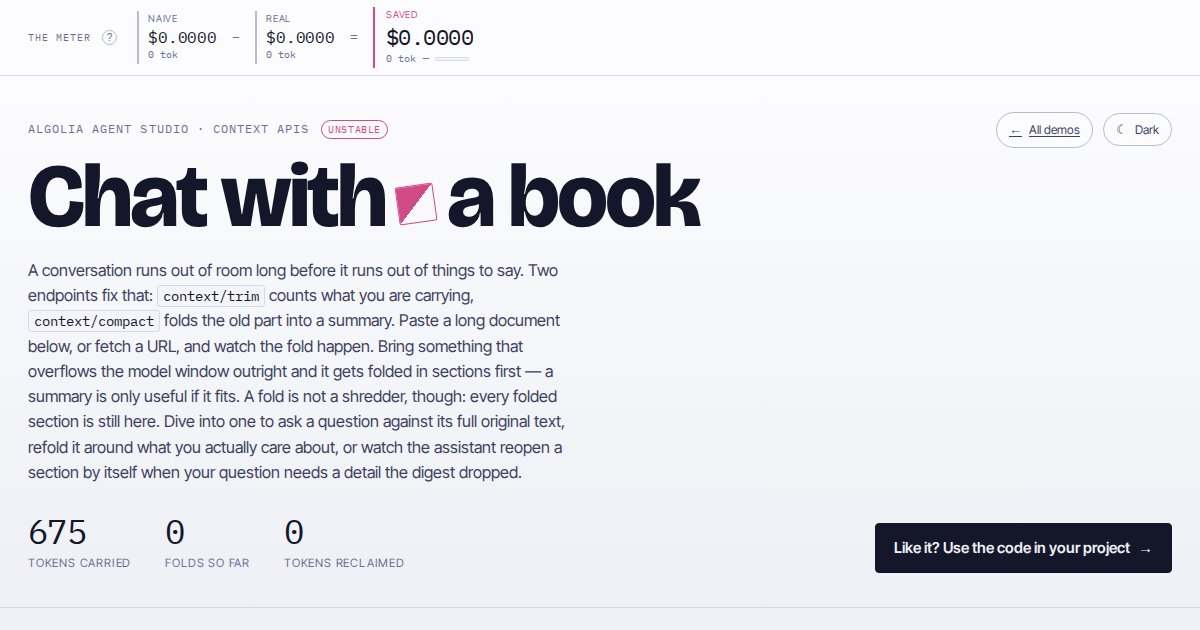
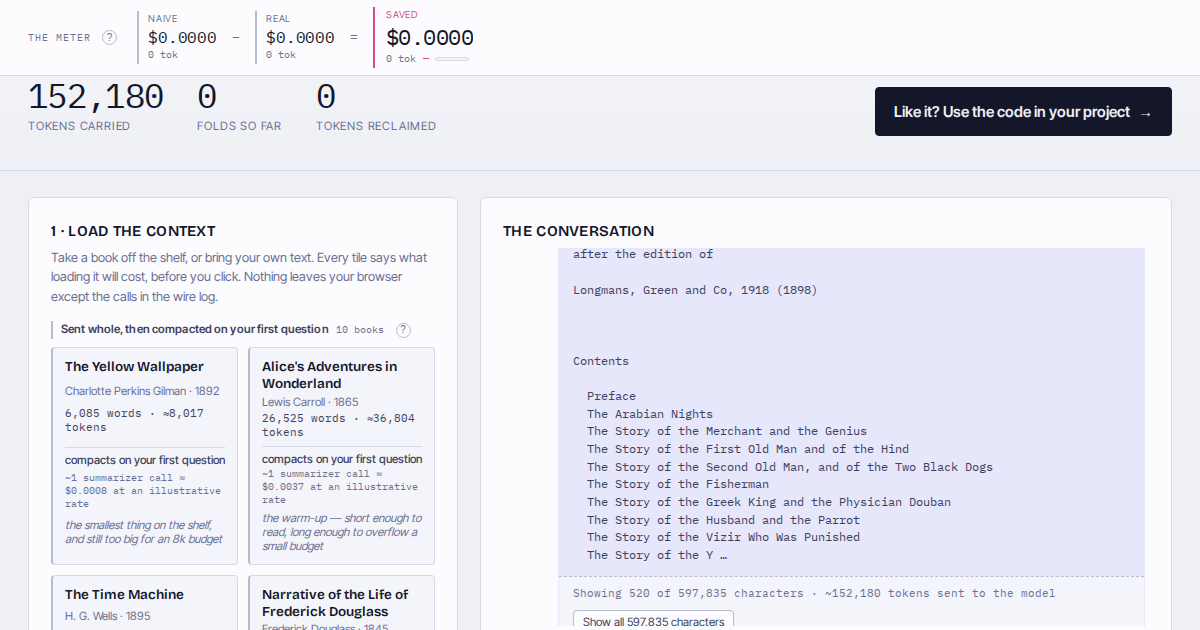
cards: the social images reshot on this week's pages, and the alt text that was lying
All three predated the sixteen-book shelf, the "In the original" section and
the greed control, and the infinite-conversation card still showed the page
when it was a coming-soon placeholder.

Reshot at 1200x630, light theme, from real state and never mocked numbers:

  landing         the page as it loads — both demos now reading Live, the
                  rewritten lede, the fold-mark in the masthead.
  chat-with-book  one real ingestion. The Arabian Nights is the largest book
                  that loads on a single trim call and never reaches the
                  summarizer, so 152,180 tokens carried is a count the trim
                  endpoint returned. The frame is scrolled past the masthead
                  to hold the priced shelf and the loaded text together.
  infinite        the longest seeded saga on arrival, where trim counts the
                  history past the window on its own and the strip flips to
                  impossible mode: 210k on a 200k window, nothing subtracted.

The infinite-conversation alt text claimed a saga "folded on arrival" and the
card shows nothing folded — no fold fires until asked. Rewritten to the state
in the frame, chat-with-book's to name the shelf it now leads with, and the
landing's to say both demos are live, which is what changed in that picture.
No og:description changed; none of them said anything the new images contradict.

Three trim calls to make all three, no compaction and no completions.

diff --git a/public/infinite-conversation/index.html b/public/infinite-conversation/index.html
@@ -17,7 +17,7 @@
 <meta property="og:image" content="https://agent-studio-demos.pages.dev/assets/og/infinite-conversation.png">
 <meta property="og:image:width" content="1200">
 <meta property="og:image:height" content="630">
-<meta property="og:image:alt" content="The Infinite conversation demo, a seeded saga folded on arrival and the cost meter carrying its count.">
+<meta property="og:image:alt" content="The Infinite conversation demo the moment a seeded saga loads: 252&nbsp;exchanges behind you, 209,522&nbsp;tokens carried, and the meter reading 210k on a 200k&nbsp;window with nothing folded yet.">
 <meta name="twitter:card" content="summary_large_image">
 <meta name="twitter:title" content="Infinite conversation&nbsp;— Agent Studio context APIs">
 <meta name="twitter:description" content="Arrive in the middle of a conversation with hundreds of turns and far more tokens than the working budget can hold behind it, then keep going by clicking suggested replies while compaction quietly keeps it alive.">

diff --git a/public/chat-with-book/index.html b/public/chat-with-book/index.html
@@ -19,7 +19,7 @@
 <meta property="og:image" content="https://agent-studio-demos.pages.dev/assets/og/chat-with-book.png">
 <meta property="og:image:width" content="1200">
 <meta property="og:image:height" content="630">
-<meta property="og:image:alt" content="The Chat with a book demo, a document ingested and the token meter carrying its count.">
+<meta property="og:image:alt" content="The Chat with a book demo with a book off the shelf: the priced shelf on the left, the loaded text on the right, and 152,180&nbsp;tokens carried above them.">
 <meta name="twitter:card" content="summary_large_image">
 <meta name="twitter:title" content="Chat with a book&nbsp;— Agent Studio context APIs">
 <meta name="twitter:description" content="Chat with an entire book on a small-context model&nbsp;— hierarchical compaction folds Moby-Dick's 1.2M&nbsp;characters into a conversation that never overflows a 200k&nbsp;window, and every API call is shown on screen.">

diff --git a/public/index.html b/public/index.html
@@ -19,7 +19,7 @@
 <meta property="og:image" content="https://agent-studio-demos.pages.dev/assets/og/landing.png">
 <meta property="og:image:width" content="1200">
 <meta property="og:image:height" content="630">
-<meta property="og:image:alt" content="The Agent Studio demos landing page, with a card for each demo.">
+<meta property="og:image:alt" content="The Agent Studio demos landing page, with a card each for Chat with a book and Infinite conversation, both of them now live.">
 <meta name="twitter:card" content="summary_large_image">
 <meta name="twitter:title" content="Agent Studio demos&nbsp;— context APIs in the browser">
 <meta name="twitter:description" content="Two single-page demos of what the Agent Studio context APIs make possible: context/trim counts what a conversation is carrying, context/compact folds the old part into a summary you can still open back up.">
